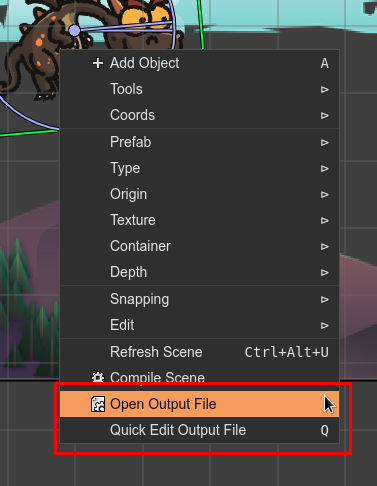
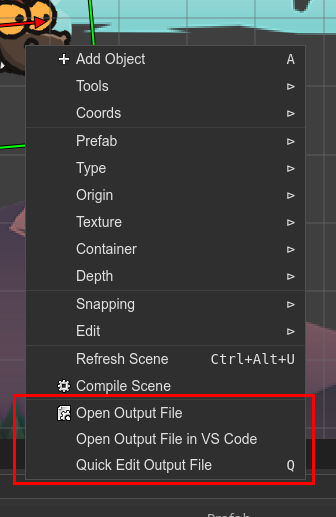
Includes the commands to launch VS Code.

diff --git a/scene-editor/scene-compiler-user-code.rst b/scene-editor/scene-compiler-user-code.rst
@@ -46,6 +46,8 @@ The |SceneEditor|_ provides two commands to quickly edit the code file generated
 
 The **Open Output File** command opens the generated file in a new |CodeEditor|_, in the traditional way.
 
+The **Open Output File in VS Code** command is enabled in the IDE if it is running in `desktop mode <../misc/server-options.html>`_. This command launches a local |VSCode|_ instance that opens the generated file.
+
 The **Quick Edit Output File** command (bound to the ``Q`` key) opens the generated file in a |CodeEditor|_ that is embedded in a modal dialog. This way is perfect for quick modifications, however, intellisense and all the other |MonacoEditor|_ features are enabled, so you have a similar experience in comparison with the traditional way of editing.
 
 .. image:: ../images/scene-compiler-quick-edit-code-06092020.webp

diff --git a/workbench/main-menu.rst b/workbench/main-menu.rst
@@ -5,12 +5,14 @@ Main menu
 
 The |MainMenu|_ lists common general commands. You can open it by pressing in the menu button at the right of the |MainToolbar|_:
 
-.. image:: ../images/workbench-main-menu-04062020.webp
+.. image:: ../images/workbench-main-menu-06092020.webp
  :alt: Main menu.
 
 * **Open Project**: launches the `Open Project dialog <projects.html#projects-dialog>`_.
 
 * **Reload Project**: `reloads the project files <projects.html#reload-project>`_.
+
+* **Open Visual Studio Code**: opens the project in a local |VSCode|_ instance. This is available only if the |PhaserEditor|_ server is running in `desktop mode <../misc/server-options.html>`_.
 
 * **Select Color Theme**: opens the `Color Themes dialog <color-themes.html>`_.
 

diff --git a/misc/server-options.rst b/misc/server-options.rst
@@ -17,9 +17,8 @@ Use this option if you are working with a local server:
 
 * When you run the server, it automatically opens the default browser and the IDE.
 
-* It allows the IDE to interact with local resources,
- like the File manager. See more in the `Files view <../workbench/files-view.html#context-menu>`_ chapter.
-
+* It allows the IDE to interact with local resources, like the File manager. See more in the `Files view <../workbench/files-view.html#context-menu>`_ chapter.
+* It allows launching |VSCode|_ from the IDE.
 * It denies connections from external hosts.
 
 **-disable-gzip**

diff --git a/CHANGELOG.MD b/CHANGELOG.MD
@@ -8,3 +8,4 @@
 * Update the Files view section with the New sub-menu.
 * The Create Prefab With Object option.
 * A new section: **Editing the generated code**.
+* Includes the commands to launch VS Code.
